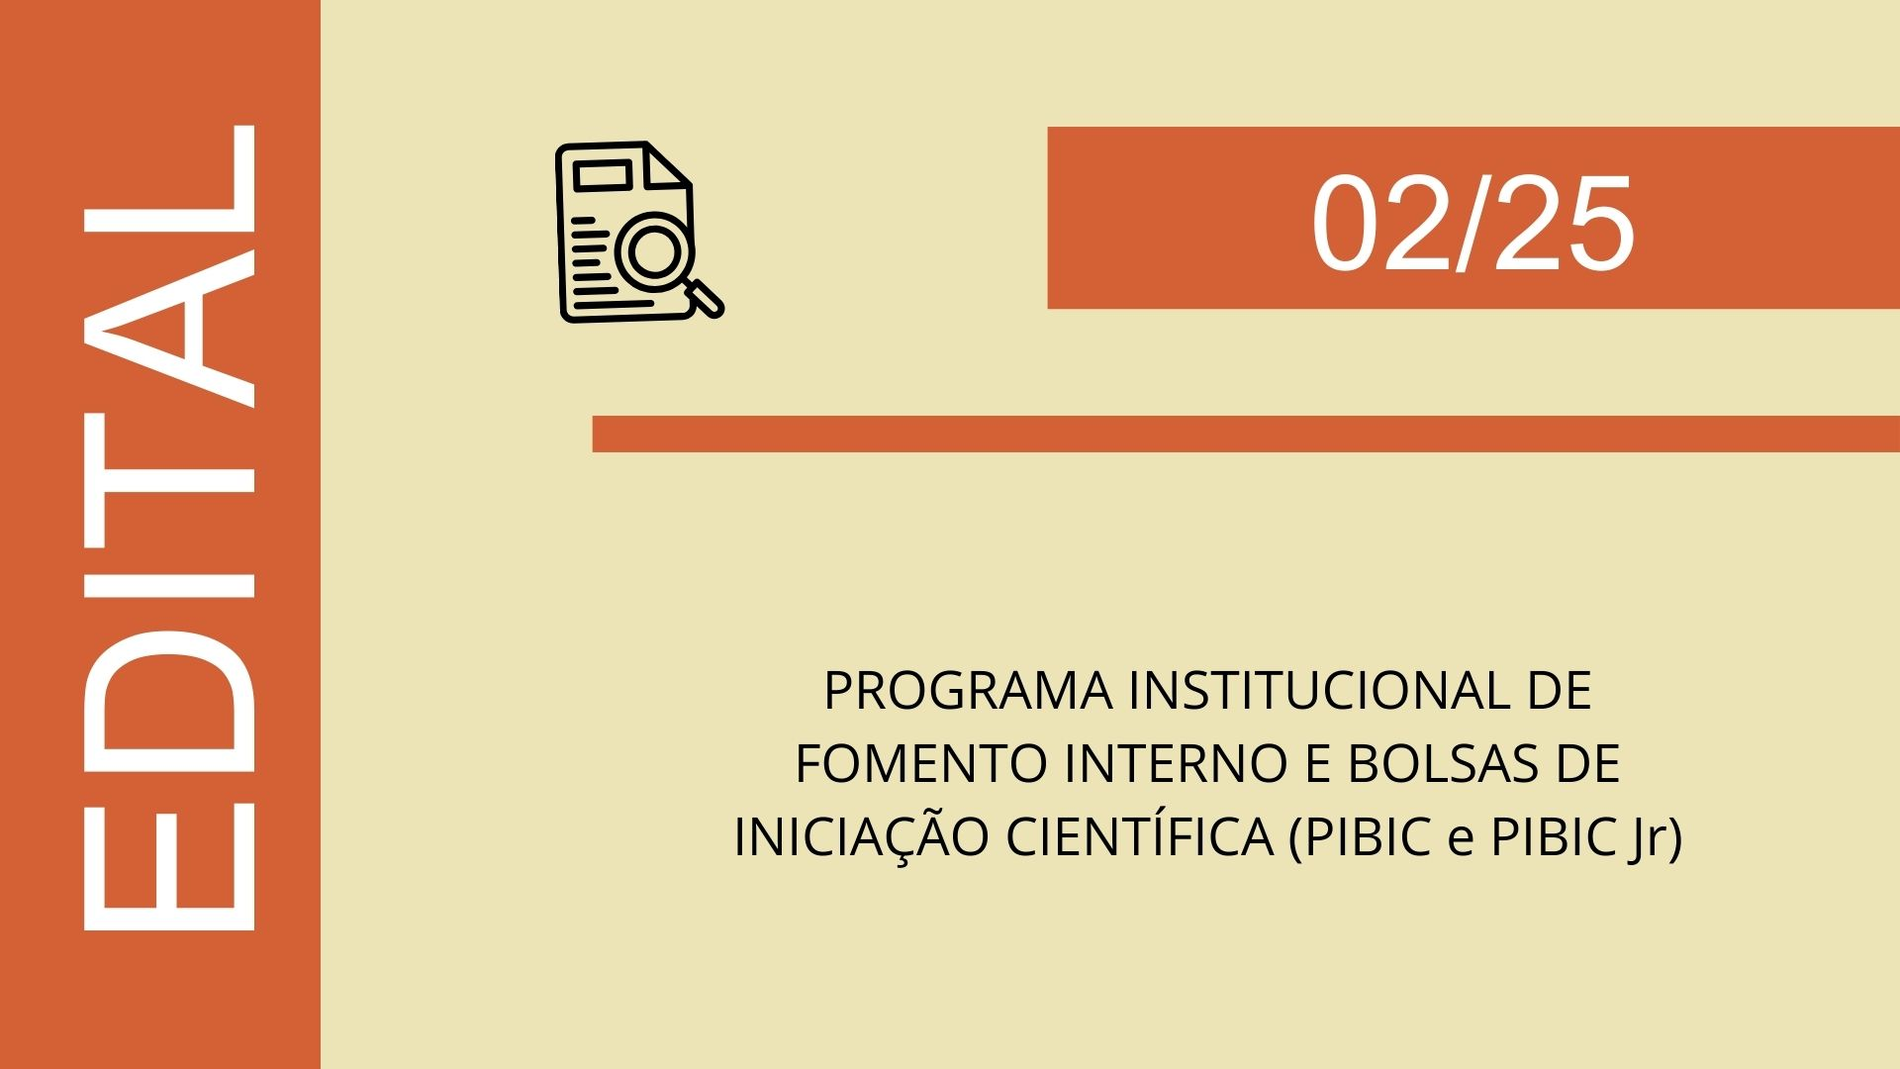
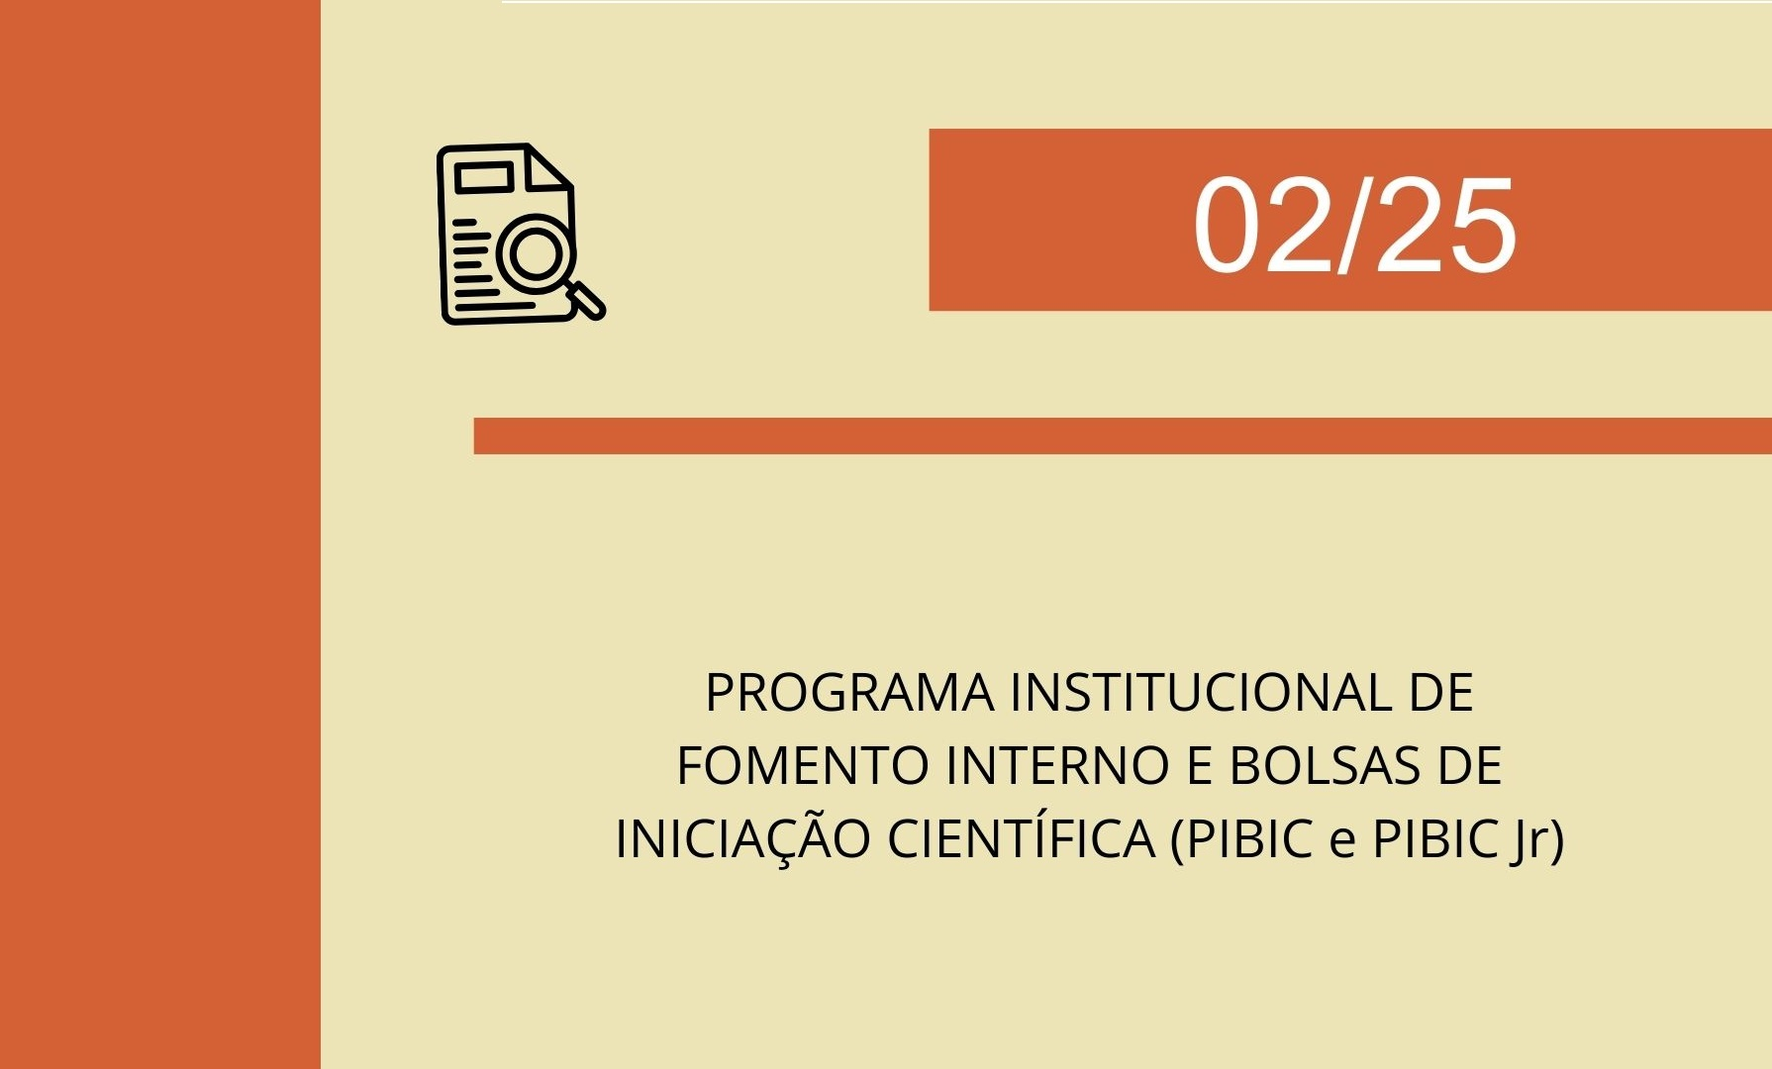
Atualizações
- Atualizar banners das noticias edital 02 e edital 03
- colocar nomes dos professores nas noticias
- Adicionar projetos de pesquisa

diff --git a/projetos.html b/projetos.html
@@ -76,7 +76,7 @@
 
                         <div class="mb-5">
                             <h3 class="fw-bold">Ferramenta automatizada para adaptação de questões para estudantes neurodivergentes fundamentada em recursos de Inteligência Artificial Generativa (2024 - Atual)</h3>
-                            <p><strong>Financiamento:</strong> IFSULDEMINAS - Chamada Nº 19/2023 - PAS/IFSULDEMINAS</p>
+                            <p><strong>Financiamento:</strong> IFSULDEMINAS - Chamada Nº 19/2023 - PAS/IFSULDEMINAS, IFSULDEMINAS - Chamada Nº 02/2025 - PAS/IFSULDEMINAS</p>
                             <p><strong>Resumo:</strong> Este projeto propõe o desenvolvimento de uma ferramenta automatizada para adaptar questões de avaliação, tornando-as mais acessíveis e compreensíveis para 
                                 estudantes neurodivergentes, com base em recursos de Inteligência Artificial Generativa (IA generativa). A inclusão desses estudantes na educação é um desafio, e a adaptação de materiais 
                                 didáticos é essencial para garantir sua participação efetiva. A ferramenta visa não apenas adequar o conteúdo das questões, mas também torná-las mais acessíveis, contribuindo assim 
@@ -93,6 +93,17 @@
                                 usando modelos de inteligência artificial a partir de um grande volume de dados.</p>
                         </div>
 
+                        
+                        <div class="mb-5">
+                            <h3 class="fw-bold">Predição da Mortalidade Infantil no Brasil utilizando Machine Learning e Record Linkage de Dados do SUS (2025 - Atual)</h3>
+                            <p><strong>Financiamento:</strong> IFSULDEMINAS - Chamada Nº 02/2025 - PAS/IFSULDEMINAS</p>
+                            <p><strong>Resumo:</strong> A Mortalidade Infantil (MI) é um indicador crítico da saúde pública e das desigualdades sociais. Este projeto propõe a construção de um sistema preditivo da mortalidade infantil no Brasil, a partir da integração e análise de bases de dados do Sistema Único de Saúde (SUS), com foco em técnicas de aprendizado de máquina. A pesquisa dá continuidade a uma etapa anterior, que já realizou o linkage determinístico entre os bancos SINASC e SIM, gerando uma base integrada com mais de 260 mil registros — cuja metodologia foi apresentada em artigo aceito no ICISMED 2025. Nesta nova fase, serão reavaliadas as estratégias de integração, ampliando a análise para outras fontes do DataSUS, como o SIH/SUS e o SINAN. A variável alvo (predição de mortalidade) será construída a partir dos registros vinculados, e o desbalanceamento entre classes será tratado com a técnica SMOTE. Serão utilizados algoritmos supervisionados, como XGBoost e Regressão Logística, avaliados por métricas como F1-score e recall. Os resultados serão discutidos com apoio de um profissional da saúde, garantindo sua contextualização sob a ótica clínica e de políticas públicas. Espera-se gerar uma ferramenta preditiva robusta, com aplicabilidade no monitoramento e na formulação de estratégias para redução da mortalidade infantil no Brasil.</p>
+                        </div>
+                        <div class="mb-5">
+                            <h3 class="fw-bold">Análise Temporal da distribuição dos casos de Pessoas que Vivem com HIV/Aids no Brasil (2025 - Atual)</h3>
+                            <p><strong>Financiamento:</strong> IFSULDEMINAS - Chamada Nº 02/2025 - PAS/IFSULDEMINAS</p>
+                            <p><strong>Resumo:</strong> Analisar a tendência temporal dos casos de HIV/Aids na população no Brasil, no período de 2005 a 2023. Métodos: Trata-se de um estudo epidemiológico, transversal, descritivo-analítico e com abordagem quantitativa, com dados secundários de 2005 a 2023, pela plataforma online do DATASUS. Por se tratar de um estudo realizado com dados secundários de domínio público, dispensa apreciação Ética. A população que será analisada será de pessoas com diagnóstico de HIV/Aids com registros no sistema de 2005 a 2023 e a região de residência. Para a análise será empregado o programa   Joinpoint® (versão   4.2.02). Resultados: Espera-se identificar movimentos de normalidade, crescimento e queda de números que possam ser justificados pelo emprego, ou não, de políticas de saúde, bem como identificar regiões e populações de maior concentração de casos.</p>
+                        </div>
                         <div class="mb-5">
                             <h3 class="fw-bold">Sistema Adaptativo e Inteligente para Educação Fundamentado em Técnicas de Análise de Dados (2023 - 2025)</h3>
                             <p><strong>Financiamento:</strong> FAPEMIG - Chamada Nº 73/2023 - PIBIC FAPEMIG/IFSULDEMINAS</p>
@@ -107,8 +118,8 @@
                         <h2 class="fw-bolder">Projetos de Extensão</h2>
                         <hr class="mb-5">
                         <div class="mb-5">
-                            <h3 class="fw-bold">Ensino de Programação utilizando Robótica Educacional e Metodologias Ativas aplicada a estudantes do ensino fundamental e médio de escolas públicas</h3>
-                            <p><strong>Financiamento:</strong>  </p>
+                            <h3 class="fw-bold">Ensino de Programação utilizando Robótica Educacional e Metodologias Ativas aplicada a estudantes do ensino fundamental e médio de escolas públicas (2025 - Atual)</h3>
+                            <p><strong>Financiamento:</strong> IFSULDEMINAS - Chamada Nº 03/2025 - PAS/IFSULDEMINAS</p>
                             <p><strong>Resumo: </strong>Nos últimos anos, com o advento de recursos tecnológicos cada vez mais sofisticados, tem-se notado que diversas atividades desempenhadas por 
                                 humanos foram simplificadas de forma significativa. Essas atividades podem variar desde uma transferência bancária, realizada por meio da manipulação de um aplicativo 
                                 para dispositivos móveis, à limpeza de um ambiente físico, a qual pode ser desempenhada por um agente inteligente (robô) programado para tal fim. De modo a construir 
@@ -121,8 +132,8 @@
                             </p>
                         </div>
                         <div class="mb-5">
-                            <h3 class="fw-bold">Emprega Mais: protótipo de um aplicativo para integração entre escola e trabalho</h3>
-                            <p><strong>Financiamento:</strong>  </p>
+                            <h3 class="fw-bold">Emprega Mais: protótipo de um aplicativo para integração entre escola e trabalho (2025 - Atual)</h3>
+                            <p><strong>Financiamento:</strong> IFSULDEMINAS - Chamada Nº 03/2025 - PAS/IFSULDEMINAS</p>
                             <p><strong>Resumo: </strong>A integração entre o mercado de trabalho e a escola é importante para uma boa formação do profissional. Hoje, está cada vez mais difícil 
                                 encontrar um profissional qualificado que atenda às necessidades de uma determinada empresa. Este trabalho propõe a criação de um protótipo de um aplicativo para promover 
                                 a integração entre a escola e o trabalho. Para realizar o projeto, será necessário identificar as atividades e necessidades atuais deste setor da instituição, criar o 
@@ -132,9 +143,19 @@
                             </p>
                         </div>
                         <div class="mb-5">
-                            <h3 class="fw-bold">IF Reciclatech: Economia Circular Aplicada à Reciclagem e ao Reaproveitamento de Resíduos Tecnológicos no Espaço Maker do IFSULDEMINAS - Campus Passos (2024 - Atual)</h3>
-                            <p><strong>Financiamento:</strong>  </p>
-                            <p><strong>Resumo:</strong> De acordo com a The Global E-Waste Monitor, em pesquisa realizada no ano de 2024, a geração global de resíduos eletrônicos atingiu cerca de 62 bilhões de quilos no ano de 2022, um aumento em 82% do lixo eletrônico mundial produzido, considerando o período de 2010 a 2022. Segundo a ONU, em levantamento realizado no ano de 2024, o Brasil é responsável por gerar 2,4 milhões de toneladas de resíduos de equipamentos eletroeletrônicos (e-lixo), ocupando o quinto lugar dos maiores produtores de e-lixo no mundo. Considerando o cenário descrito, o projeto IF ReciclaTech propõe a implementação de práticas de economia circular no IFSULDEMINAS, através de parcerias com empresas que produzem resíduos eletrônicos. O foco é a reutilização desses insumos para a criação de dispositivos eletrônicos, de modo que estes venham a beneficiar os projetos de robótica executados no Espaço Maker do IFSULDEMINAS - Campus Passos. A metodologia envolve a triagem de resíduos, a geração de protótipos e a implementação de práticas de conscientização voltadas para a comunidade sobre a necessidade de realizar a reciclagem de resíduos eletrônicos. Resultados esperados incluem a redução de resíduos eletrônicos descartados, parcerias entre o IFSULDEMINAS e a empresa fornecedora de insumo, o desenvolvimento de dispositivos eletrônicos a partir de materiais reciclados e a conscientização da comunidade, sobre a necessidade de adotar práticas de reciclagem, bem como por possibilitar que os participantes produzam novas peças através do reuso dos resíduos eletrônicos. Além disso, o projeto prevê a destinação ambientalmente correta dos resíduos que não puderem ser reaproveitados, garantindo que sejam descartados de maneira sustentável e em conformidade com as diretrizes ambientais.
+                            <h3 class="fw-bold">IF Reciclatech: Economia Circular Aplicada à Reciclagem e ao Reaproveitamento de Resíduos Tecnológicos no Espaço Maker do IFSULDEMINAS - Campus Passos (2025 - Atual)</h3>
+                            <p><strong>Financiamento:</strong> IFSULDEMINAS - Chamada Nº 03/2025 - PAS/IFSULDEMINAS</p>
+                            <p><strong>Resumo:</strong> De acordo com a The Global E-Waste Monitor, em pesquisa realizada no ano de 2024, a geração global de resíduos eletrônicos atingiu cerca de 62 
+                                bilhões de quilos no ano de 2022, um aumento em 82% do lixo eletrônico mundial produzido, considerando o período de 2010 a 2022. Segundo a ONU, em levantamento realizado 
+                                no ano de 2024, o Brasil é responsável por gerar 2,4 milhões de toneladas de resíduos de equipamentos eletroeletrônicos (e-lixo), ocupando o quinto lugar dos maiores 
+                                produtores de e-lixo no mundo. Considerando o cenário descrito, o projeto IF ReciclaTech propõe a implementação de práticas de economia circular no IFSULDEMINAS, através 
+                                de parcerias com empresas que produzem resíduos eletrônicos. O foco é a reutilização desses insumos para a criação de dispositivos eletrônicos, de modo que estes venham 
+                                a beneficiar os projetos de robótica executados no Espaço Maker do IFSULDEMINAS - Campus Passos. A metodologia envolve a triagem de resíduos, a geração de protótipos e a 
+                                implementação de práticas de conscientização voltadas para a comunidade sobre a necessidade de realizar a reciclagem de resíduos eletrônicos. Resultados esperados incluem 
+                                a redução de resíduos eletrônicos descartados, parcerias entre o IFSULDEMINAS e a empresa fornecedora de insumo, o desenvolvimento de dispositivos eletrônicos a partir de 
+                                materiais reciclados e a conscientização da comunidade, sobre a necessidade de adotar práticas de reciclagem, bem como por possibilitar que os participantes produzam novas 
+                                peças através do reuso dos resíduos eletrônicos. Além disso, o projeto prevê a destinação ambientalmente correta dos resíduos que não puderem ser reaproveitados, garantindo 
+                                que sejam descartados de maneira sustentável e em conformidade com as diretrizes ambientais.
                             </p>
                         </div>
                     </div>

diff --git a/news/news-edital-02-2025.html b/news/news-edital-02-2025.html
@@ -39,7 +39,7 @@
     <header class="bg-dark text-white py-5">
         <div class="container text-center">
             <h1 class="display-4 fw-bold">
-                GOPAD conquista aprovação de três projetos no edital de pesquisa
+                GOPAD tem três projetos de pesquisa aprovados no edital PAS/IFSULDEMINAS
             </h1>
         </div>
     </header>
@@ -49,24 +49,23 @@
         <div class="row">
             <!-- Imagem de destaque -->
             <div class="col-md-12">
-                <img class="img-fluid img-standard mb-4" src="/assets/news/banner_750x195_PIBIC_CNPQ-2018.jpg"alt="Descrição da imagem" />
+                <img class="img-fluid img-standard mb-4" src="../assets/news/PIBIC.jpg"alt="Descrição da imagem" />
             </div>
             <!-- Texto da notícia -->   
             <div class="col-md-12">
-                <p class="text-muted mb-4">Publicado em: 10/08/2025<span class="fw-bold"></span></p>
+                <p class="text-muted mb-4">Publicado em: <span class="fw-bold">[19/08/2025]</span></p>
                 <article class="fs-5" style="text-align: justify;">
                     O Grupo de Pesquisa em Otimização, Processamento de Dados e Aplicações (GOPAD) conquistou um importante resultado no Edital nº 2/2025/PAS/IFSULDEMINAS, garantindo a aprovação de três projetos de pesquisa entre as dez propostas selecionadas.
                     
                     <p>O edital, exclusivo do IFSULDEMINAS – Campus Passos, teve como objetivo fomentar a pesquisa e sua interface com a extensão, fortalecendo a iniciação científica no instituto. Por meio da concessão de bolsas, busca-se incentivar a participação de estudantes de cursos superiores, técnicos integrados e subsequentes em atividades práticas e teóricas no ambiente de pesquisa.</p>
                     
                     <p>Os projetos aprovados pelo GOPAD são:</p>
-                    
+
                     <ul>
-                        <li>"O uso da inteligência artificial pelos profissionais das áreas de marketing e comunicação"</li>
-                        <li>"Sistema Inteligente para Adaptação Personalizada de Questões para Estudantes Neurodivergentes"</li>
-                        <li>"Predição da Mortalidade Infantil no Brasil utilizando Machine Learning e Record Linkage de Dados do SUS"</li>
+                    <li>"Análise Temporal da distribuição dos casos de Pessoas que Vivem com HIV/Aids no Brasil" — orientado por <strong>Juliano de Souza Caliari</strong></li>
+                    <li>"Sistema Inteligente para Adaptação Personalizada de Questões para Estudantes Neurodivergentes" — orientado por <strong>Hiran Nonato Macedo Ferreira</strong></li>
+                    <li>"Predição da Mortalidade Infantil no Brasil utilizando Machine Learning e Record Linkage de Dados do SUS" — orientado por <strong>Vinícius Alves Silva</strong></li>
                     </ul>
-                    
                     <p>Essas iniciativas refletem a diversidade de temas e o compromisso do grupo em desenvolver soluções inovadoras com impacto acadêmico e social.</p>
                 </article>
                 

diff --git a/news/news-edital-03-2025.html b/news/news-edital-03-2025.html
@@ -39,7 +39,7 @@
     <header class="bg-dark text-white py-5">
         <div class="container text-center">
             <h1 class="display-4 fw-bold">
-                GOPAD conquista aprovação de três projetos no edital de extensão
+                Projetos de extensão do GOPAD recebem aprovação em edital do Campus Passos
             </h1>
         </div>
     </header>
@@ -49,11 +49,11 @@
         <div class="row">
             <!-- Imagem de destaque -->
             <div class="col-md-12">
-                <img class="img-fluid img-standard mb-4" src="/assets/news/banner-edital-03-2025.png"alt="Descrição da imagem" />
+                <img class="img-fluid img-standard mb-4" src="../assets/news/Selecionar_projetos_de_extensão_no_âmbito_do_IFSULDEMINAS1.png"alt="Descrição da imagem" />
             </div>
             <!-- Texto da notícia -->   
             <div class="col-md-12">
-                <p class="text-muted mb-4">Publicado em: 10/08/2025<span class="fw-bold"></span></p>
+                <p class="text-muted mb-4">Publicado em: <span class="fw-bold">[19/08/2025]</span></p>
                 <article class="fs-5" style="text-align: justify;">
                     O Grupo de Pesquisa em Otimização, Processamento de Dados e Aplicações (GOPAD) também se destacou no Edital nº 03/2025 – Eleição de Propostas de Atividades de Extensão (Projetos de Extensão e Eventos), promovido pelo IFSULDEMINAS – Campus Passos.
 
@@ -62,9 +62,9 @@
                     <p>Nesse contexto, o GOPAD garantiu a aprovação de três projetos de extensão, que reforçam sua atuação voltada ao impacto social e à inovação:</p>
 
                     <ul>
-                        <li>"Ensino de Programação utilizando Robótica Educacional e Metodologias Ativas aplicada a estudantes do ensino fundamental e médio de escolas públicas"</li>
-                        <li>"Emprega Mais: protótipo de um aplicativo para integração entre escola e trabalho"</li>
-                        <li>"IF Reciclatech: Economia Circular Aplicada à Reciclagem e ao Reaproveitamento de Resíduos Tecnológicos no Espaço Maker do IFSULDEMINAS - Campus Passos"</li>
+                        <li>"Ensino de Programação utilizando Robótica Educacional e Metodologias Ativas aplicada a estudantes do ensino fundamental e médio de escolas públicas" — orientado por <strong>Hiran Nonato Macedo Ferreira</strong></li>
+                        <li>"Emprega Mais: protótipo de um aplicativo para integração entre escola e trabalho" — orientado por <strong>Juvêncio Geraldo de Moura</strong></li>
+                        <li>"IF Reciclatech: Economia Circular Aplicada à Reciclagem e ao Reaproveitamento de Resíduos Tecnológicos no Espaço Maker do IFSULDEMINAS - Campus Passos" — orientado por <strong>Wedson Gomes da Silveira Junior</strong></li>
                     </ul>
                     <p>Essas iniciativas refletem a diversidade de temas e o compromisso do grupo em desenvolver soluções inovadoras com impacto acadêmico e social.</p>
                 </article>

diff --git a/noticias.html b/noticias.html
@@ -81,19 +81,17 @@
                     <div class="col-md-4 mb-5">
                           
                         <div class="card h-100 shadow border-0">
-                            <a href="news/">
-                                <img class="card-img-top img-fluid" src="./assets/news/"
+                            <a href="news/news-edital-03-2025.html">
+                                <img class="card-img-top img-fluid" src="./assets/news/edital_03_25.jpg"
                                     alt=""
                                     style="height: 300px; object-fit: cover; width: 100%;" />
                             </a>
                             
                             <div class="card-body p-4" style="max-height: 250px; overflow-y: auto;">
                                 <div class="badge bg-primary bg-gradient rounded-pill mb-2">News</div>
-                                <h5 class="card-title mb-3">GOPAD conquista aprovação de três projetos 
-                                    no edital de extensão
+                                <h5 class="card-title mb-3">Projetos de extensão do GOPAD recebem aprovação em edital do Campus Passos
                                 </h5>
                                 <p class="text-muted">Publicado em: [19/08/2025]</p>
-                                
 
                             </div>
                         </div>
@@ -103,16 +101,15 @@
                     <div class="col-md-4 mb-5">
                         
                         <div class="card h-100 shadow border-0">
-                            <a href="news/"> 
-                                <img class="card-img-top img-fluid" src="./assets/news/"
+                            <a href="news/news-edital-02-2025.html"> 
+                                <img class="card-img-top img-fluid" src="./assets/news/edital_02_25.jpg"
                                     alt=""
                                     style="height: 300px; object-fit: cover; width: 100%;" />
 
                             </a>
                             <div class="card-body p-4" style="max-height: 250px; overflow-y: auto;">
                                 <div class="badge bg-primary bg-gradient rounded-pill mb-2">News</div>
-                                <h5 class="card-title mb-3">GOPAD conquista aprovação de três projetos 
-                                    no edital de pesquisa
+                                <h5 class="card-title mb-3">GOPAD tem três projetos de pesquisa aprovados no edital PAS/IFSULDEMINAS
                                 </h5>
                                 <p class="text-muted">Publicado em: [19/08/2025]</p>
                                 
